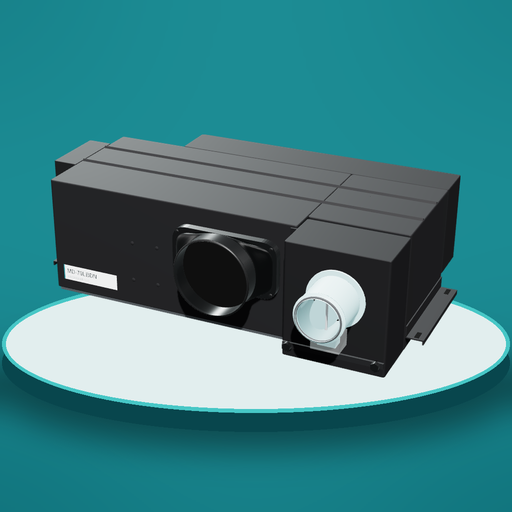
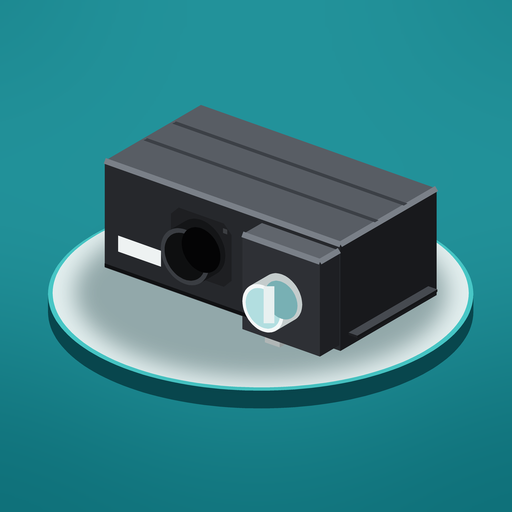
App 圖示改為 Q 版 MD-70LBDN 插畫
外型照實機：黑色機身、頂部凸筋、正面 8" 黑色法蘭、右側前凸新風箱與 4" 電動風門、銘牌、一片式吊耳，放在展示台上。

Claude-Session: https://claude.ai/code/session_016bDArbNA9F9dxaqhLt5yQD

diff --git a/sw.js b/sw.js
@@ -1,5 +1,5 @@
 /* 米多力展示台 service worker — app shell cached on install, CDN (three.js / fonts) cached on first use, works offline afterwards. */
-const VERSION='medole-showroom-1403eda262';
+const VERSION='medole-showroom-d7f6a4e658';
 const SHELL=["./", "data.js", "engine.js", "families.js", "icons/apple-touch-icon.png", "icons/cover.png", "icons/icon-192.png", "icons/icon-32.png", "icons/icon-512.png", "icons/icon-maskable-512.png", "index.html", "manifest.webmanifest", "models/md-100lb.js", "models/md-130lb.js", "models/md-140lb.js", "models/md-210lb.js", "models/md-250lb.js", "models/md-300lbd.js", "models/md-30lb.js", "models/md-35lb-tp.js", "models/md-40lbd.js", "models/md-70lbad.js", "models/md-70lbd.js", "models/md-70lbdn.js", "models/md-a40lb.js"];
 const CDN=/^https:\/\/(cdnjs\.cloudflare\.com|fonts\.googleapis\.com|fonts\.gstatic\.com)\//;
 self.addEventListener('install',e=>{e.waitUntil(caches.open(VERSION).then(c=>c.addAll(SHELL.map(u=>new Request(u,{cache:'reload'})))).then(()=>self.skipWaiting()));});
